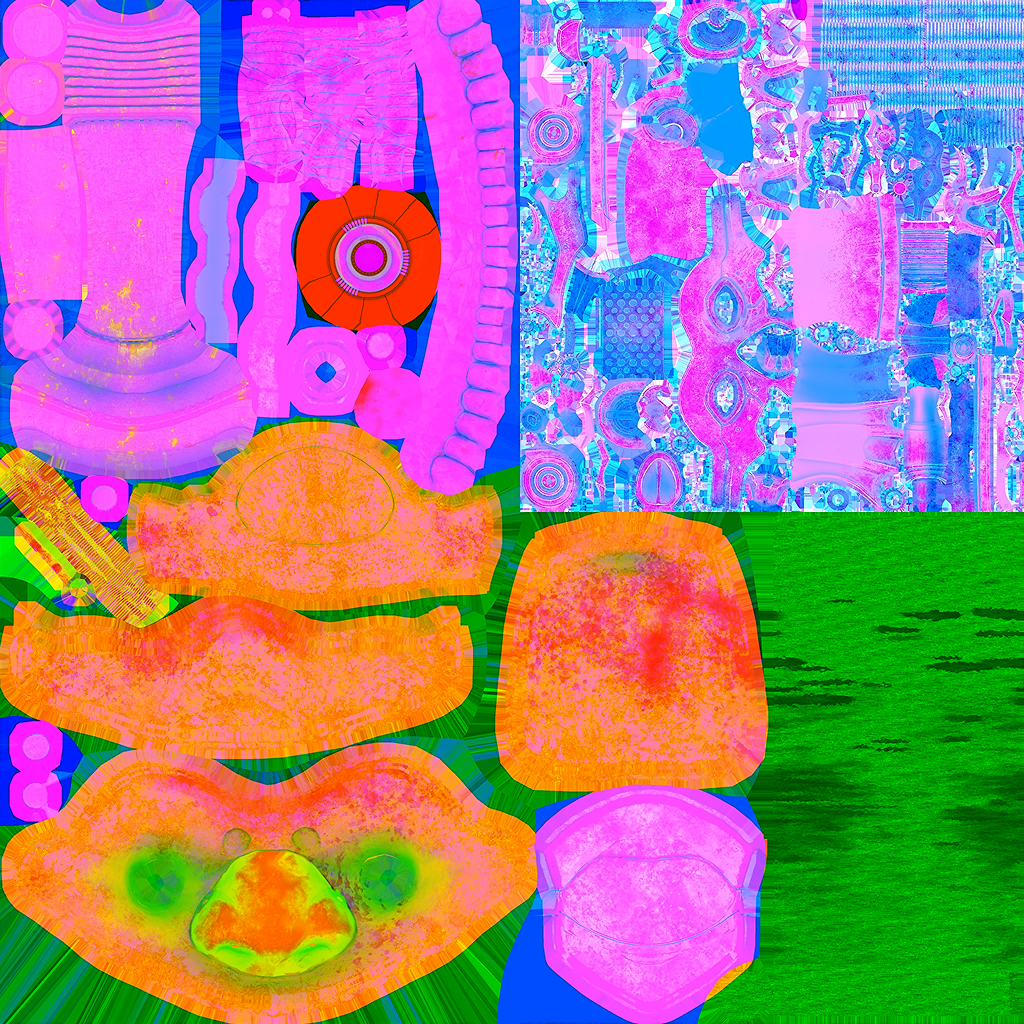
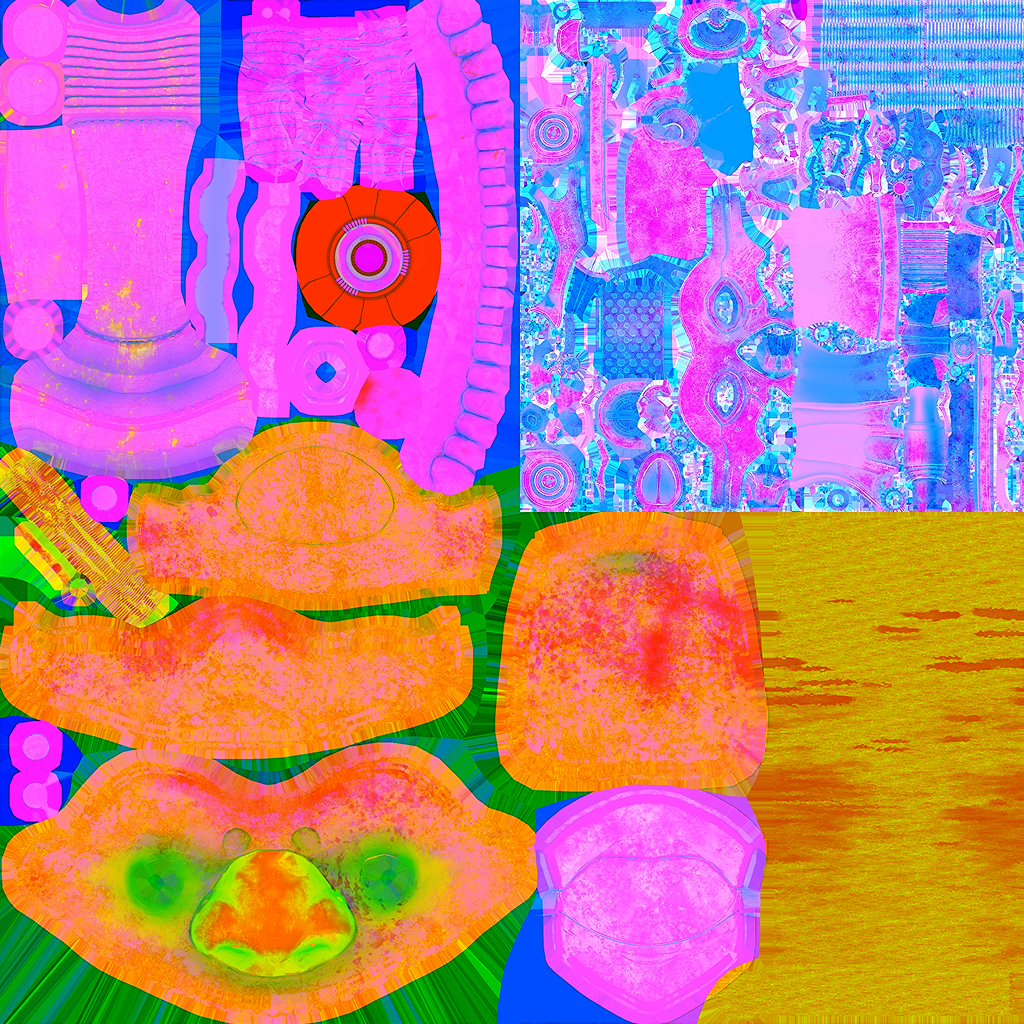
축제인도자 머릿결 살렸음

Changed region(s): [[0.6562, 0.4688, 1.0, 1.0]]

diff --git a/Client/Public/PlayerState.h b/Client/Public/PlayerState.h
@@ -3293,9 +3293,6 @@ public:
         m_pOwner->SetIsFatalBoss(false);
         m_pOwner->SetbIsBackAttack(false);
         m_pOwner->SetFatalTargetNull();
-
-        m_pOwner->WeaponReset();
-
     }
 
     virtual void Execute(_float fTimeDelta) override
@@ -3360,6 +3357,7 @@ public:
         if (m_fStateTime > 9.5f && !m_pOwner->m_bIsRrevival)
         {
             m_pOwner->Reset();
+            m_pOwner->WeaponReset();
 
             m_pOwner->m_bIsRrevival = true;
 

diff --git a/Client/Private/Level_KratCentralStation.cpp b/Client/Private/Level_KratCentralStation.cpp
@@ -290,12 +290,12 @@ HRESULT CLevel_KratCentralStation::Ready_Level()
 
 
 	//고사양 모드
-	//if (FAILED(Ready_Lights()))
-	//	return E_FAIL;
+	if (FAILED(Ready_Lights()))
+		return E_FAIL;
 
 	////저사양 모드
-	if (FAILED(Ready_Lights_LowQuality()))
-		return E_FAIL;
+	//if (FAILED(Ready_Lights_LowQuality()))
+	//	return E_FAIL;
 	
 	if (FAILED(Ready_OctoTree()))
 		return E_FAIL;

diff --git a/Client/Private/Player.cpp b/Client/Private/Player.cpp
@@ -708,7 +708,7 @@ void CPlayer::TriggerStateEffects(_float fTimeDelta)
 	//if (m_strPrevStateName != stateName)
 	if (m_eCategory != m_ePreCategory)
 	{
-		printf("Current State: %s\n", stateName.c_str());
+		//printf("Current State: %s\n", stateName.c_str());
 		m_ePreCategory = m_eCategory;
 		m_fMoveTime = 0.f;
 		m_fSetTime = 0.f;
